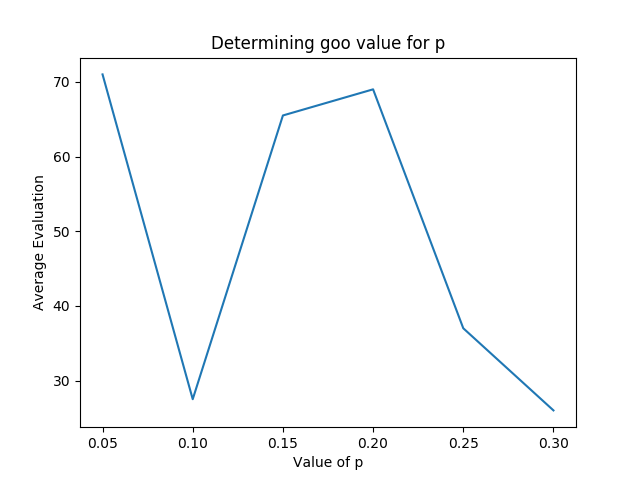
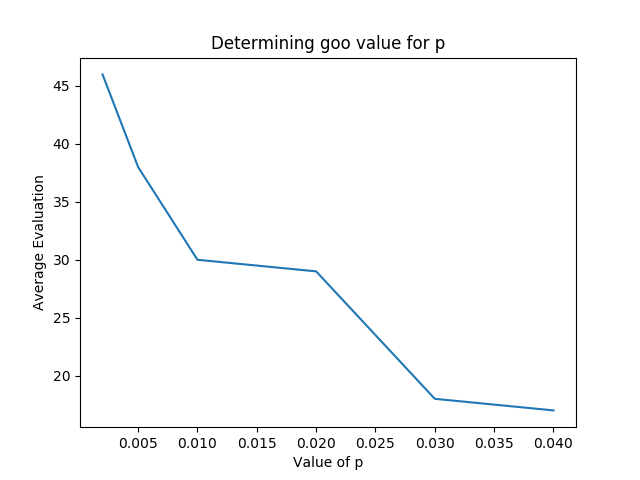
minor changes

diff --git a/assets/index.html b/assets/index.html
@@ -50,6 +50,18 @@
                 http.send(null);
             }
 
+            function getstuff() {
+                n = getN();
+                var http = new XMLHttpRequest();
+                http.onreadystatechange = function() {
+                    if (http.readyState == 4 && http.status == 200) {
+                        displayPuzzle(n, http.responseText);
+                    }
+                }
+                http.open("GET", 'localhost:5000/climb', true);
+                http.send(null);
+            }
+
             function createTable(div, n, items) {
                 var table = document.createElement('table');
                 var row = null;
@@ -88,7 +100,7 @@
             <option value="20">20</option>
         </select>
         <button onclick="getGenAlgoPuzzle()">GEN ALGO</button>
-        <button>HILL CLIMBING</button>
+        <button onclick="getstuff()">HILL CLIMBING</button>
         <div id="iterations" style="margin-top:40px"></div>
         <div id="solution"></div>
         <div id="puzzleTable" style="margin-top:40px"></div>

diff --git a/puzzle/search.py b/puzzle/search.py
@@ -1,6 +1,11 @@
 import numpy as np
 from evaluate import *
 import matplotlib.pyplot as plt
+from flask import Flask
+from flask import jsonify
+from flask_cors import CORS, cross_origin
+app = Flask(__name__)
+cors = CORS(app)
 
 def hill_climbing(n = 5, iters = 500, report = 100, p=0, temperature = 0, decay = 0.9):
     """returns the resultant puzzle, its evaluation, and the iteration data.
@@ -16,6 +21,7 @@ def hill_climbing(n = 5, iters = 500, report = 100, p=0, temperature = 0, decay 
         index = np.random.randint(0,n*n-1)
         r = index/n
         c = index%n
+        walk_chance = np.random.uniform(0, 1)
 
         _, fitness = evaluate(puzzle)
         curr = puzzle[r,c]
@@ -59,6 +65,21 @@ def hill_restarts(n = 5, restarts = 10, iters = 100, report = 100, p=0, temperat
 
     return best_puzzle, best_eval, np.array(data)
 
+@app.route('/climb')
+@cross_origin()
+def climbing(n=5):
+    iters = 5000
+    puz, best, tempdata = hill_restarts(n, restarts=1, iters=iters, report=100, p=0.2, temperature=0, decay=0.999)
+    depth,b = evaluate(puz)
+    puz = puz.flatten()
+    depth = depth.flatten()
+
+    return jsonify(
+        Cells=list(puz),
+        DepthBFS=list(depth),
+        fitness=best,
+        Iterations=iters
+    )
 
 def rand_value(loc, n):
     r,c = loc[0]+1,loc[1]+1
@@ -83,63 +104,72 @@ if __name__=='__main__':
     # print(evaluate(puz))
     # print(hill_climbing(puz, 1))
 
-    sizes = [5,7,9,11]
-    num_runs = 50
+    # sizes = [5,7,9,11]
+    # num_runs = 50
+    #
+    # iters = 1000
+    # report = 50
+    #
+    # for n in sizes:
+    #     data = np.zeros(int(iters/report))
+    #
+    #     for i in range(num_runs):
+    #         puz, best, tempdata = hill_restarts(n,restarts=1,iters=iters,report=report, p= 0.2, temperature = 0, decay=0.999)
+    #         print("Restarts: ", puz, best)
+    #         data = data + tempdata
+    #
+    #     plt.figure()
+    #     plt.plot(np.arange(0,iters,report),data/num_runs)
+    #     plt.ylabel('Fitness')
+    #     plt.xlabel('Iterations')
+    #     plt.title('{} by {} HC with Random Walk'.format(n,n))
+    #     plt.savefig('plots/{}by{}rwalk.png'.format(n,n))
 
-    iters = 1000
-    report = 50
 
-    for n in sizes:
-        data = np.zeros(int(iters/report))
-
-        for i in range(num_runs):
-            puz, best, tempdata = hill_restarts(n,restarts=1,iters=iters,report=report, p= 0.2, temperature = 0, decay=0.999)
-            print("Restarts: ", puz, best)
-            data = data + tempdata
-
-        plt.figure()
-        plt.plot(np.arange(0,iters,report),data/num_runs)
-        plt.ylabel('Fitness')
-        plt.xlabel('Iterations')
-        plt.title('{} by {} HC with Random Walk'.format(n,n))
-        plt.savefig('plots/{}by{}rwalk.png'.format(n,n))
-
-
-    puz, best, data = hill_restarts(11, restarts=2, iters=10000, report=100, p=0.2, temperature=0, decay=0)
-    print("Basic: ", puz, best)
-    plt.figure()
-    plt.plot(np.arange(0, 10000, 100), data)
-    plt.ylabel('Fitness')
-    plt.xlabel('Iterations')
-    plt.title('{} by {} HC with Random Walk'.format(11, 11))
-    plt.savefig('plots/{}by{}rwalkdeep.png'.format(11, 11))
+    # puz, best, data = hill_restarts(11, restarts=1, iters=10000, report=100, p=0.2, temperature=0, decay=0)
+    # print("Basic: ", puz, best)
+    # plt.figure()
+    # plt.plot(np.arange(0, 10000, 100), data)
+    # plt.ylabel('Fitness')
+    # plt.xlabel('Iterations')
+    # plt.title('{} by {} HC with Random Walk'.format(11, 11))
+    # plt.savefig('plots/{}by{}rwalkdeep.png'.format(11, 11))
 
 
 
     #try different params
 
-    # ps = np.array([0.05,.1,.15,.2,0.25,.3])
-    #
-    # bestp = 0
-    # bestval = -1
-    # pgraph = []
-    # for p in ps:
-    #     data = np.zeros(30)
-    #     for i in range(2):
-    #         puz, best, datatemp = hill_restarts(11, restarts=1, iters=3000, report=100, p=p, temperature=0, decay=0.999)
-    #         data += datatemp
-    #     data = data/2
-    #     pgraph.append(data[-1])
-    #     if(data[-1]>bestval):
-    #         bestp = p
-    #         bestval = data[-1]
-    #
-    # print(bestp,bestval)
-    #
+    ps = np.array([.02,.01,.005,.002,.001,.0005])
+
+    bestp = 0
+    bestval = -1
+    pgraph = []
+    for p in ps:
+        data = np.zeros(30)
+        for i in range(2):
+            puz, best, datatemp = hill_restarts(11, restarts=1, iters=3000, report=100, p=p, temperature=0, decay=0.999)
+            data += datatemp
+        data = data/2
+        pgraph.append(data[-1])
+        if(data[-1]>bestval):
+            bestp = p
+            bestval = data[-1]
+
+    print(bestp,bestval)
+
+    plt.figure()
+    plt.plot(ps,np.array(pgraph))
+    plt.ylabel('Average Evaluation')
+    plt.xlabel('Value of p')
+    plt.title('Determining goo value for p'.format(11, 11))
+    plt.savefig('plots/pgraph')
+
+    # puz, best, data = hill_restarts(11, restarts=1, iters=10000, report=100, p=0, temperature=100, decay=0.999)
+    # print("Basic: ", puz, best)
     # plt.figure()
-    # plt.plot(ps,np.array(pgraph))
-    # plt.ylabel('Average Evaluation')
-    # plt.xlabel('Value of p')
-    # plt.title('Determining goo value for p'.format(11, 11))
-    # plt.savefig('plots/pgraph')
+    # plt.plot(np.arange(0, 10000, 100), data)
+    # plt.ylabel('Fitness')
+    # plt.xlabel('Iterations')
+    # plt.title('{} by {} HC with Annealing'.format(11, 11))
+    # plt.savefig('plots/{}by{}annealdeep.png'.format(11, 11))
 
